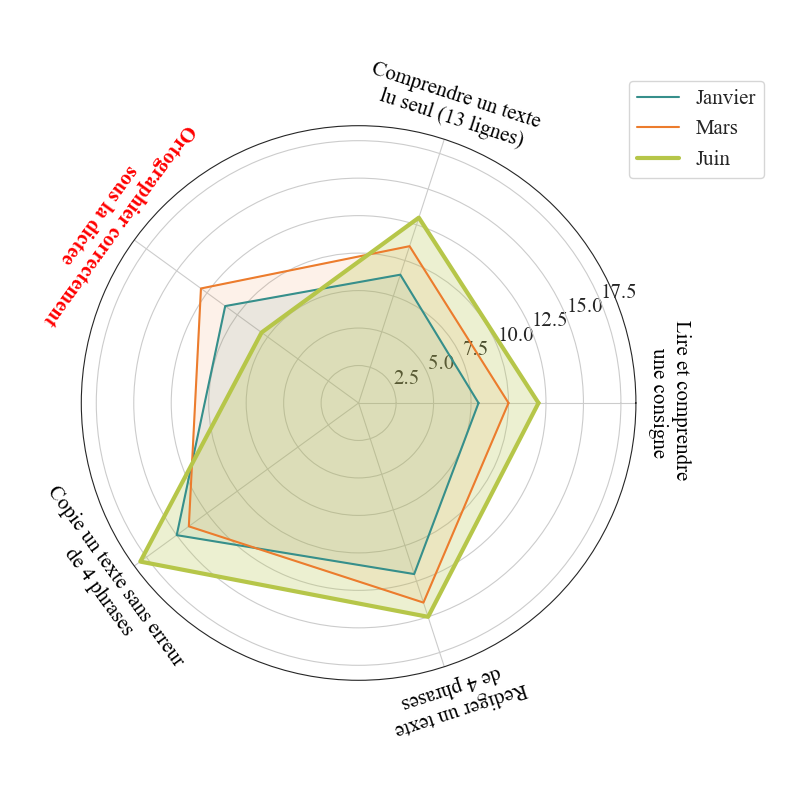
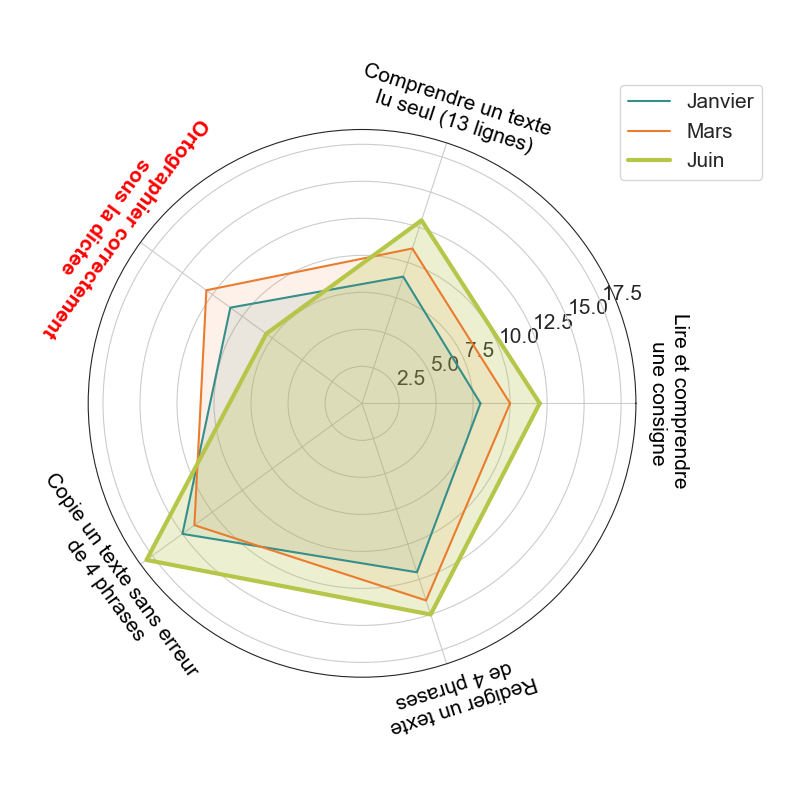
update

diff --git a/app.py b/app.py
@@ -1,36 +1,25 @@
+import matplotlib
+matplotlib.use("Agg")
+
 import streamlit as st
 import pandas as pd
 import matplotlib.pyplot as plt
-import matplotlib
 import seaborn as sns
 import numpy as np
 import re
+import io
+import zipfile
 
-matplotlib.use("Agg")   # <- IMPORTANT for Streamlit cloud
-
-# Configure Matplotlib fonts
 plt.rcParams.update({
-    "text.usetex": False,                # no LaTeX
-    "font.sans-serif": ["DejaVu Sans"],         # base font family
-    "font.sans-serif": ["Helvetica"],    # prefer Helvetica
-    "mathtext.fontset": "custom",        # custom math font
-    "mathtext.rm": "Helvetica",          # math regular
-    "mathtext.it": "Helvetica:italic",   # math italic
-    "mathtext.bf": "Helvetica:bold",     # math bold
-    "font.size": 15                       # global font size
+    "text.usetex": False,
+    "font.family": "sans-serif",
+    "font.sans-serif": ["DejaVu Sans"],   # Helvetica not on Linux
+    "font.size": 14
 })
 
-# matplotlib.rc('font', family='sans-serif') 
-# matplotlib.rc('font', serif='Helvetica Neue') 
-# matplotlib.rc('text', usetex='false') 
-
-
-
-
-# define custom colormaps
+# COLORS
 norm = matplotlib.colors.Normalize(-1,1)
 
-# Warm 70s color scheme
 palette_20_warm70s_final = [
     '#368F8B', '#59A5A1', '#76B7B2', '#4E79A7', '#A0CBE8',
     '#EC7C2D', '#F28E2B', '#EDC948', '#D4A72C',
@@ -39,38 +28,27 @@ palette_20_warm70s_final = [
     '#7B4F6D', '#AF7AA1'
 ]
 
-
-
-colors_warm70s = [[norm(-1.0), palette_20_warm70s_final[0]],
-          [norm( 0.6), palette_20_warm70s_final[5]]]
-cmap_warm70s = matplotlib.colors.LinearSegmentedColormap.from_list("", colors_warm70s)
 colorlist_warm70s = ['#368F8B', '#EC7C2D', '#B6C649','#AF7AA1','#EDC948', '#D4A72C','#A0CBE8', '#7FA26B']
-
 sns.set_palette(colorlist_warm70s)
 sns.set_style('white')
 
-# df = pd.read_csv("data.csv")
-
-plt.rcParams['font.family'] = 'serif'
-plt.rcParams['font.serif'] = ['Times New Roman'] + plt.rcParams['font.serif']
-plt.rcParams['mathtext.default'] = 'regular'
+# RADAR FUNCTION
 def radar_generic(row, scores, names, dates):
 
-    # Detect available suffixes in dataframe
+    # Detect suffixes
     suffixes = sorted(
         set(int(m.group(1)) for c in row.index
             for m in [re.search(r'_(\d+)$', c)] if m)
     )
     last_suffix = max(suffixes)
 
-    # Build metric list that actually exists in data
+    # Metrics present
     base_metrics = []
     for s in scores:
         for suf in suffixes:
             if f"{s}_{suf}" in row.index:
                 base_metrics.append(s)
-                break   # metric exists -> keep it
-    # Remove duplicates
+                break
     base_metrics = list(dict.fromkeys(base_metrics))
 
     # Collect values
@@ -80,7 +58,7 @@ def radar_generic(row, scores, names, dates):
 
     seuil = [row[f"{m}_seuil"] for m in base_metrics]
 
-    # Close radar loop
+    # Close loop
     def close(v): return v + v[:1]
     angles = np.linspace(0, 2*np.pi, len(base_metrics)+1)
 
@@ -93,30 +71,18 @@ def radar_generic(row, scores, names, dates):
 
     for suf, iter in zip(suffixes, range(len(suffixes))):
         lw = 3 if suf == last_suffix else 1.5
+        ls = '-' if suf == last_suffix else ':'
         alpha = 0.25 if suf == last_suffix else 0.1
         ax.plot(angles, values_per_measurement[suf], 
-                color=colorlist_warm70s[iter], lw=lw)
+                color=colorlist_warm70s[iter], lw=lw, ls = ls)
         ax.fill(angles, values_per_measurement[suf], 
-                color=colorlist_warm70s[iter], alpha=alpha, label="_nolegend_")
+                color=colorlist_warm70s[iter], alpha=alpha,  label="_nolegend_")
 
-    # Threshold
-    # ax.plot(angles, seuil, linestyle="--", color=colors["seuil"], lw=2)
-
-    # Axis labels
     # Remove default labels
     ax.set_xticks(angles[:-1])
     ax.set_xticklabels([])
 
-    # Flip specific labels (top-left and bottom-right)
-    # Identify indices by position in base_metrics
-    # i_top_left = 1          # usually second label (adjust if needed)
-    # i_bottom_right = 3       # usually fourth label (adjust if needed)
-
-    # base_metrics[i_top_left], base_metrics[i_bottom_right] = \
-    #     base_metrics[i_bottom_right], base_metrics[i_top_left]
-
-
-    # Custom curved-style labels WITH red threshold coloring
+    # Curved rotated labels + threshold coloring
     rmax = ax.get_rmax()
 
     for angle, metric in zip(angles[:-1], base_metrics):
@@ -127,7 +93,7 @@ def radar_generic(row, scores, names, dates):
 
         angle_deg = np.degrees(angle)
         rotation = angle_deg - 90
-        if 90 < angle_deg < 270:
+        if 180 < angle_deg < 327:
             rotation += 180
 
         ax.text(angle, rmax * 1.12, names[metric],
@@ -137,20 +103,17 @@ def radar_generic(row, scores, names, dates):
                 rotation_mode='anchor',
                 ha='center', va='center')
 
-    # ax.set_title(row["Prenom"], fontsize=15)
     ax.legend(dates, bbox_to_anchor=(1.25,1.1))
+    # ax.set_title(row["Prenom"])
     plt.tight_layout()
-    plt.savefig(row["Prenom"] +'.png')
 
-# for _, row in df.iterrows():
-    # radar_generic(row, scores, names, dates)
+    return fig
 
+# STREAMLIT UI
+st.title("📊 Radar d’évaluation des élèves")
+st.write("Téléversez votre fichier CSV de notes.")
 
-
-st.title("Student Evaluation Radar Plots")
-
-uploaded_file = st.file_uploader("Upload CSV file", type=["csv"])
-
+uploaded_file = st.file_uploader("📂 Importer CSV", type=["csv"])
 
 scores = [
     "Lire et comprendre une consigne",
@@ -161,20 +124,40 @@ scores = [
 ]
 
 names = {
-       "Lire et comprendre une consigne": "Lire et comprendre \nune consigne",
-       "Comprendre un texte lu seul (13 lignes)": "Comprendre un texte \nlu seul (13 lignes)",
-       "Ortographier correctement sous la dictee": "Ortographier correctement \nsous la dictee",
-       "Copie un texte sans erreur de 4 phrases": "Copie un texte sans erreur \nde 4 phrases",
-       "Rediger un texte de 4 phrases": "Rediger un texte \nde 4 phrases"
+    "Lire et comprendre une consigne": "Lire et comprendre\nune consigne",
+    "Comprendre un texte lu seul (13 lignes)": "Comprendre un texte\nlu seul (13 lignes)",
+    "Ortographier correctement sous la dictee": "Orthographier\nsous la dictée",
+    "Copie un texte sans erreur de 4 phrases": "Copie sans erreur\nde 4 phrases",
+    "Rediger un texte de 4 phrases": "Rédiger un texte\nde 4 phrases"
 }
 
 if uploaded_file:
     df = pd.read_csv(uploaded_file)
-    st.success("File uploaded!")
+    st.success("✅ Fichier chargé")
 
-    dates = df.loc[0,df.columns.str.contains('Date')].values
+    dates = df.loc[0, df.columns.str.contains("Date")].values
+    students = df["Prenom"].tolist()
 
-    # CALL YOUR EXISTING CODE HERE
-    for _, row in df.iterrows():
-        radar_generic(row, scores, names, dates)
-        st.image(row["Prenom"] + ".png")
+    student = st.selectbox("👩🎓 Choisir un élève", students)
+
+    row = df[df["Prenom"] == student].iloc[0]
+    fig = radar_generic(row, scores, names, dates)
+    st.pyplot(fig)
+
+    # ZIP DOWNLOAD
+    if st.button("📥 Télécharger tous les radars (ZIP)"):
+        zip_buffer = io.BytesIO()
+        with zipfile.ZipFile(zip_buffer, "w") as zf:
+            for _, row in df.iterrows():
+                fig = radar_generic(row, scores, names, dates)
+                img_buffer = io.BytesIO()
+                fig.savefig(img_buffer, format="png")
+                zf.writestr(f"{row['Prenom']}.png", img_buffer.getvalue())
+                plt.close(fig)
+
+        st.download_button(
+            "⬇ Télécharger ZIP",
+            zip_buffer.getvalue(),
+            "radars_eleves.zip",
+            "application/zip"
+        )
